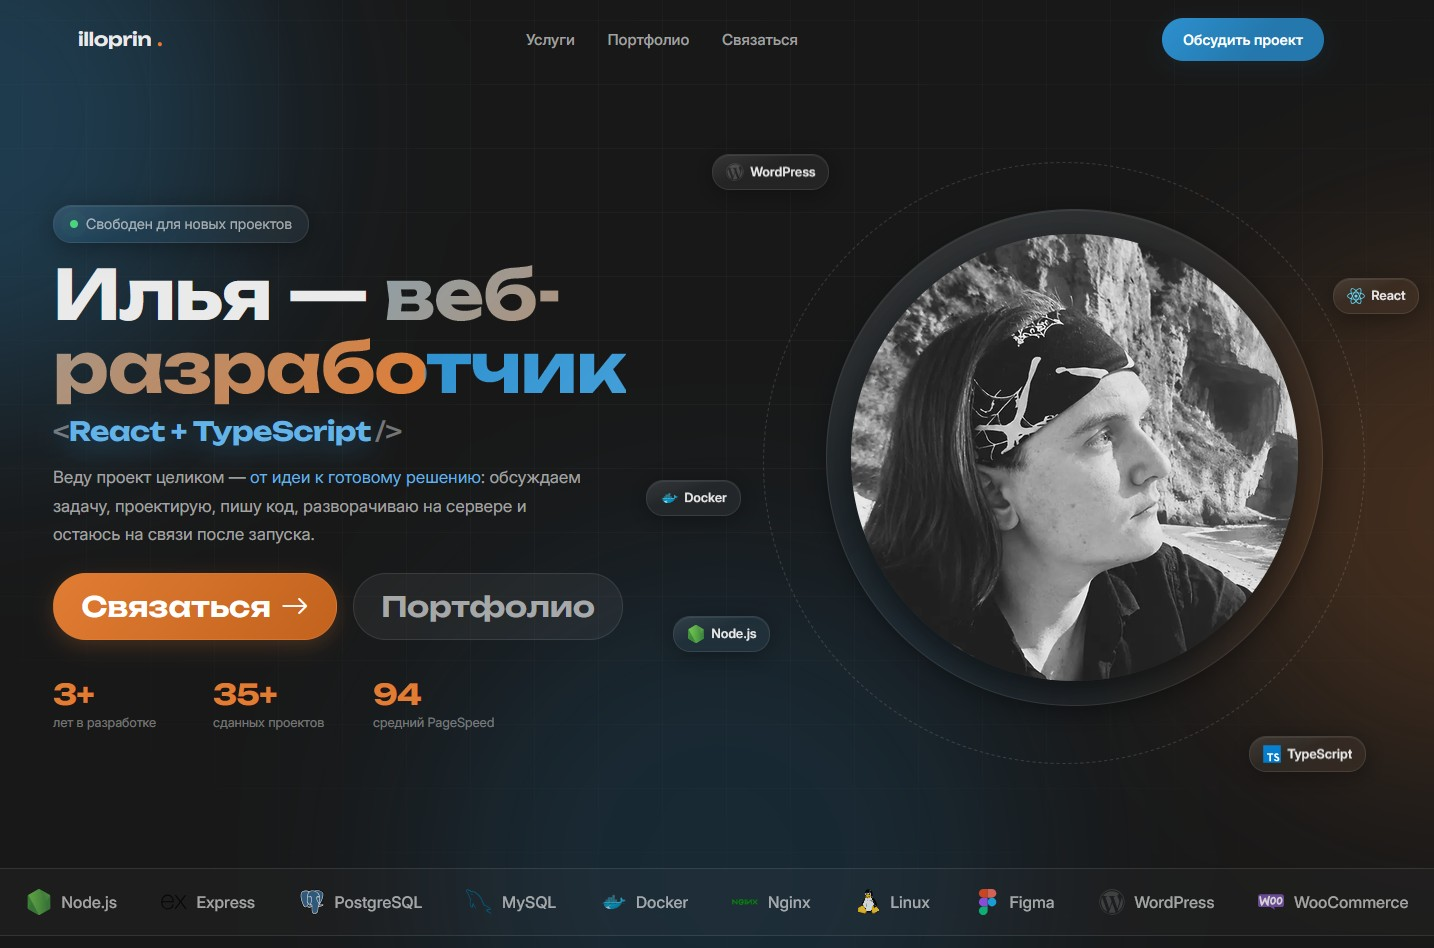
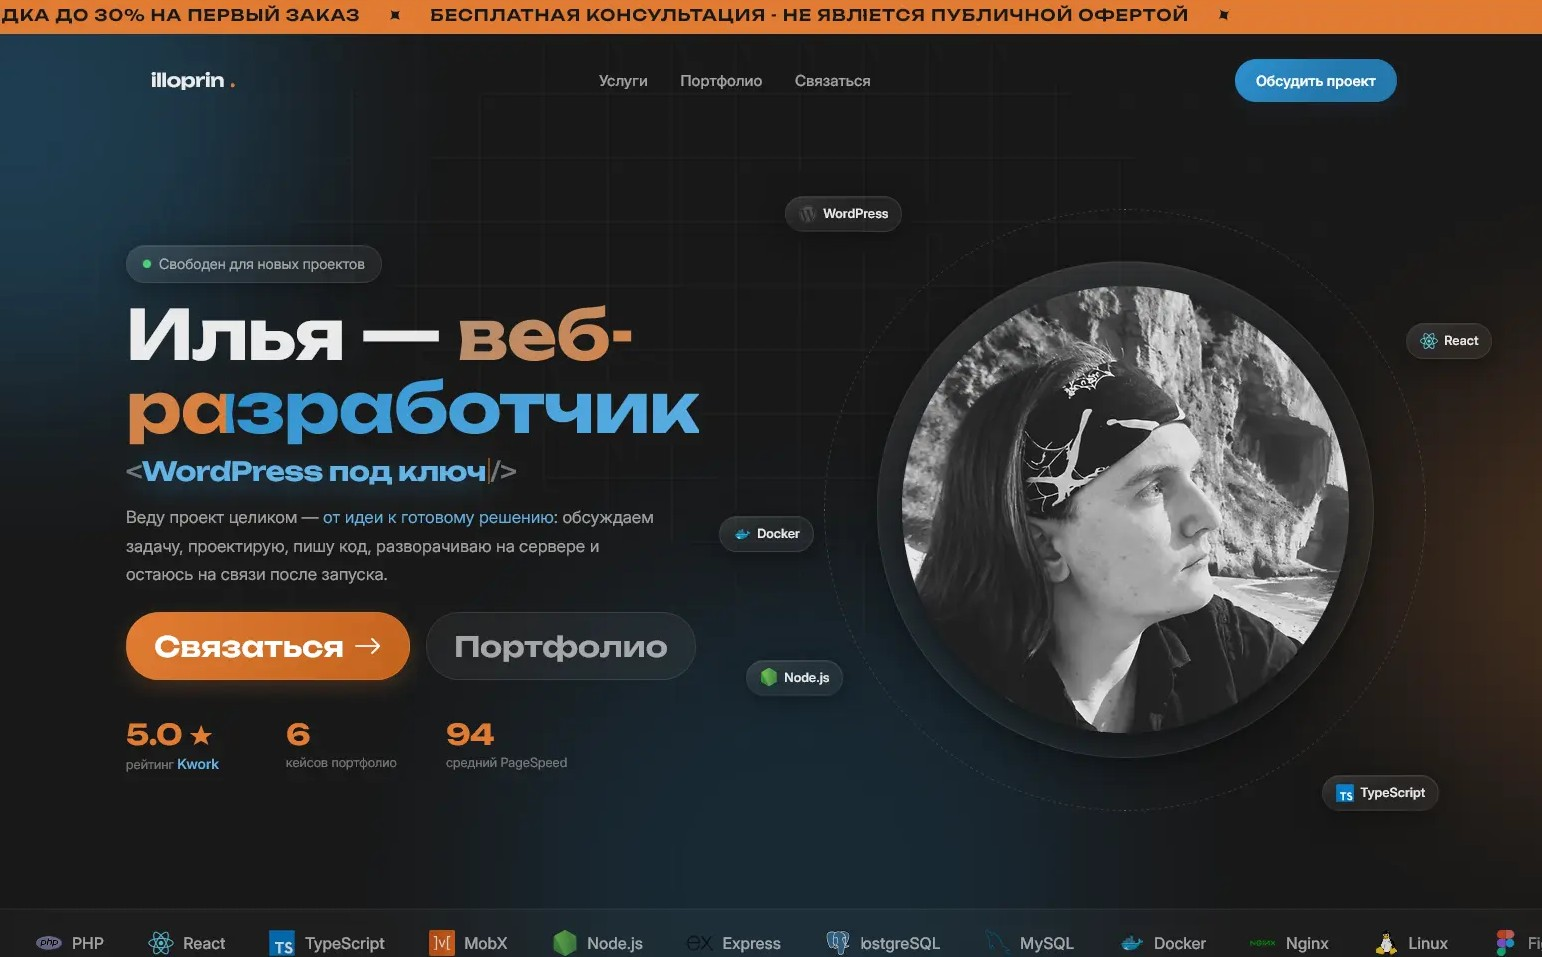
readme fix

diff --git a/README.md b/README.md
@@ -18,20 +18,20 @@
 </p>
 
 <p align="center">
-  <img src="./img/Hero.jpg" alt="Project Preview" width="100%">
+  <img src="./img/hero.jpg" alt="Project Preview" width="100%">
 </p>
 
 ---
 
 ## 💎 О проекте
 
-Это не просто блог. Это витрина технологий и подход к разработке "по-взрослому":
-- Полностью кастомная верстка (без тяжелых билдеров/конструкторов) для максимальной скорости PageSpeed.
+Моя витрина технологий и подходов к разработке:
+- Полностью кастомная верстка (без тяжелых билдеров/конструкторов) для максимальной скорости.
 - Реализован сложный UI в стилистике Glassmorphism на чистом JS.
-- Гибкая система кастомных полей через **Carbon Fields**, чтобы контент-менеджеры не трогали код.
+- Гибкая система кастомных полей через **Carbon Fields**
 - 3 кастомных типа записей (Custom Post Types) под разные форматы контента.
-- Сборка ассетов через **Vite** — быстрая компиляция и минификация на выходе.
-- Полностью упакован в **Docker**, поднимается на любой машине одной командой (никакого "у меня на компе работает").
+- Сборка ассетов через **Node.js**.
+- Полностью упакован в **Docker**, поднимается на любой машине одной командой.
 
 ## 🛠 Стек технологий
 
